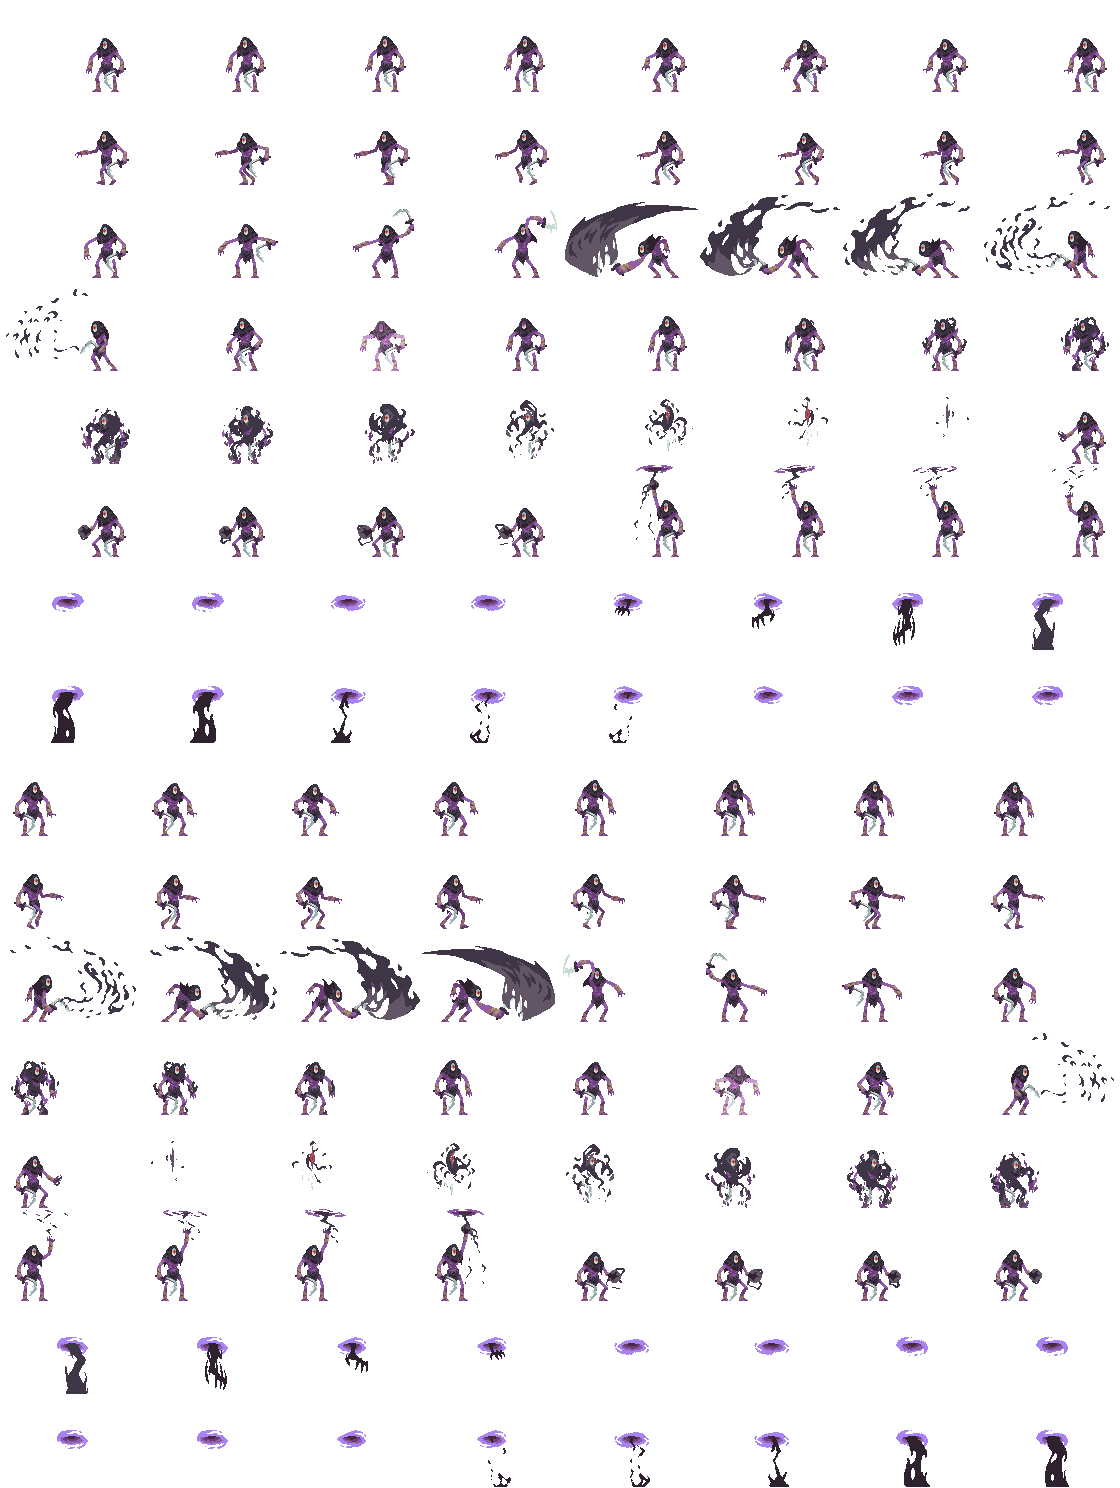
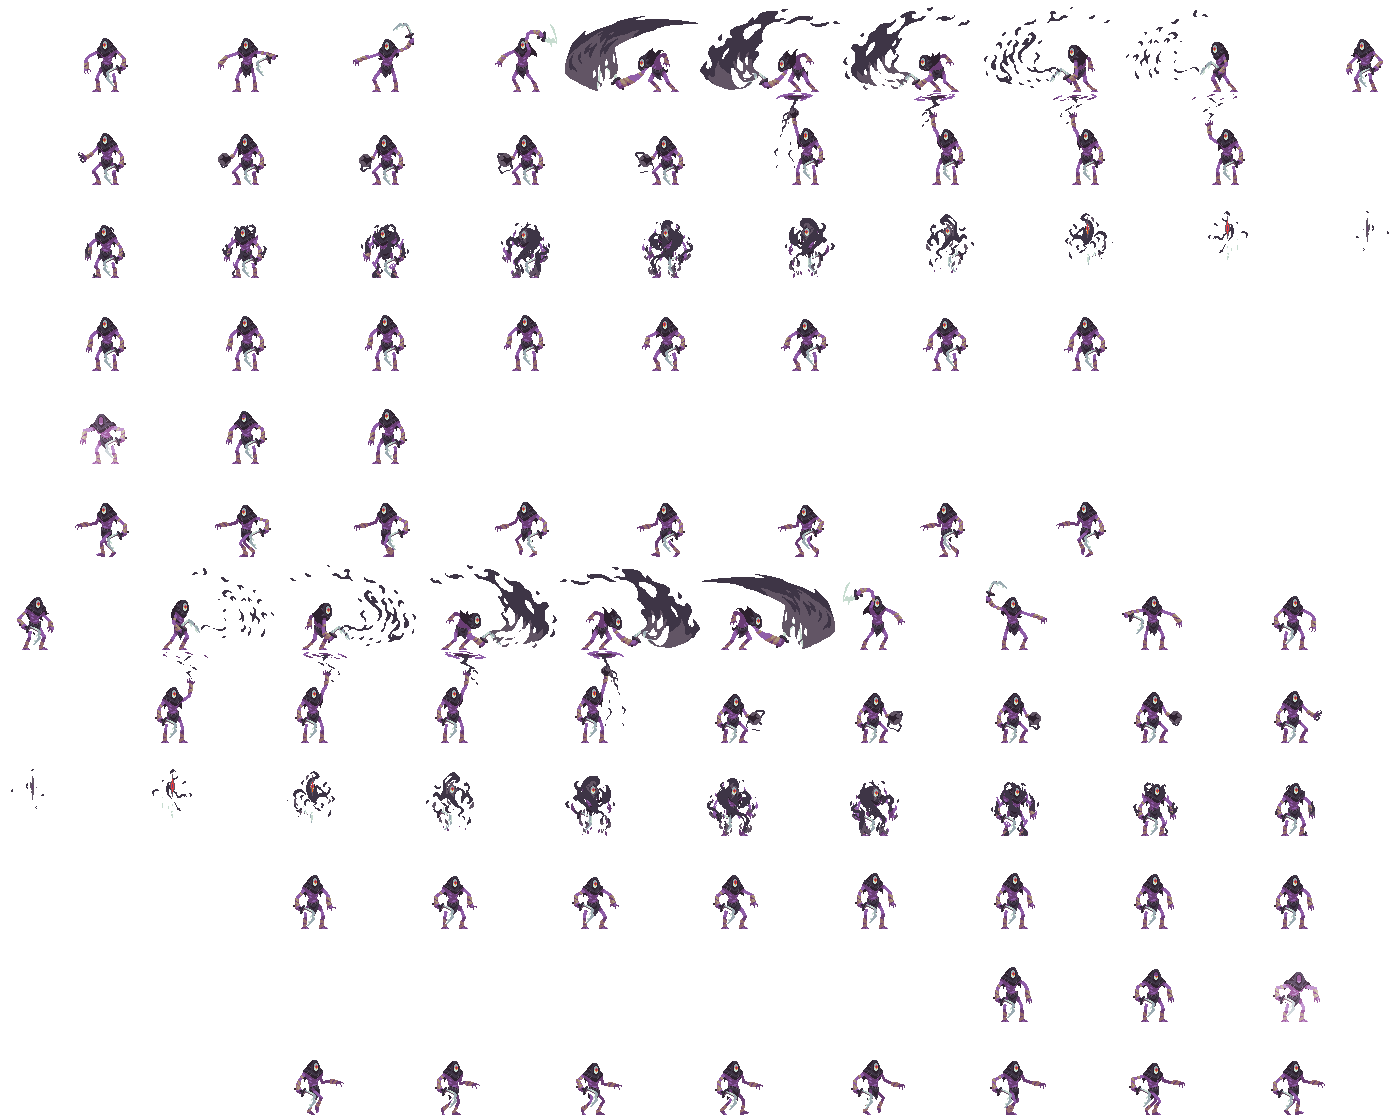
boss added

diff --git a/public/scripts/boss.js b/public/scripts/boss.js
@@ -1,0 +1,152 @@
+class BossEnemy extends EnemyBase {
+    constructor(ctx, x, y, id, world) {
+        const sequences = {
+            idleLeft:   { x: 0,    y: 279,   width: 140, height: 93, count: 8, timing: 150, loop: true },
+            idleRight:  { x: 1260, y: 837,   width: -140, height: 93, count: 8, timing: 150, loop: true },
+            walkLeft:   { x: 0,    y: 465,  width: 140, height: 93, count: 8, timing: 100, loop: true },
+            walkRight:  { x: 1260, y: 1023,  width: -140, height: 93, count: 8, timing: 100, loop: true },
+            attackLeft: { x: 0,    y: 0, width: 140, height: 93, count: 10, timing: 120, loop: false },
+            attackRight:{ x: 1260, y: 558, width: -140, height: 93, count: 10, timing: 120, loop: false },
+            castLeft:   { x: 0,    y: 93, width: 140, height: 93, count: 9,  timing: 100, loop: false },
+            castRight:  { x: 1260, y: 651, width: -140, height: 93, count: 9,  timing: 100, loop: false },
+            hitLeft:    { x: 0,    y: 372, width: 140, height: 93, count: 3,  timing: 100, loop: false },
+            hitRight:   { x: 1260, y: 930, width: -140, height: 93, count: 3,  timing: 100, loop: false },
+            deathLeft:  { x: 0,    y: 186, width: 140, height: 93, count: 10, timing: 150, loop: false },
+            deathRight: { x: 1260, y: 744, width: -140, height: 93, count: 10, timing: 150, loop: false }
+        };
+
+        super(ctx, x, y, id, world, {
+            sheet: "images/boss.png",
+            scale: 4,
+            shadowScale: { x: 0, y: 0 },
+            initialSequence: sequences.idleRight,
+            sounds: {
+                attack: new Audio("sounds/Attack.mp3"),
+                damage: new Audio("sounds/bossDamage.mp3"),
+                death:  new Audio("sounds/bossDie.mp3")
+            },
+            speed: 100,
+            maxHealth: 800,
+            maxPoise: 200,
+            range: 200,
+            attackDuration: 100,
+            attackCooldown: 80,
+            damageFrame: 50,
+            damageAmount: 40,
+            size: { hHalfSize: 45, vUpperSize: 45, vLowerSize: 75 },
+            patrol: { xl: 400, xr: 1600 }
+        });
+
+        this.sequences = sequences;
+        this.animationState = "idleRight";
+
+        this.castCooldown = 0;
+        this.castMaxCooldown = 600;
+        this.isCasting = false;
+        this.castDuration = 60;
+        this.castDamageFrame = 50;
+        this.castSound = new Audio("sounds/bossCast.mp3");
+
+        this.lastAnimDir = this.animationDirection;
+        this.dirShiftAmount = -100;
+    }
+
+    adjustDirectionOffset() {
+        if (this.animationDirection !== this.lastAnimDir) {
+            const { x, y } = this.sprite.getXY();
+            if (this.animationDirection === 1) {
+                this.sprite.setXY(x - this.dirShiftAmount, y);
+            } else {
+                this.sprite.setXY(x + this.dirShiftAmount, y);
+            }
+            this.lastAnimDir = this.animationDirection;
+        }
+    }
+
+    getAnimationState() {
+        const dir = this.animationDirection == -1 ? "Left" : "Right";
+        if (!this.alive) return `death${dir}`;
+        if (this.recoverTimer > 0) return `hit${dir}`;
+        if (this.isCasting) return `cast${dir}`;
+        if (this.attackStanceTimer > 0) return `attack${dir}`;
+        if (this.direction != 0) return `walk${dir}`;
+        return `idle${dir}`;
+    }
+
+    cast() {
+        if (this.recoverTimer > 0 || this.attackStanceTimer > 0 ||
+            this.castCooldown > 0 || !this.alive) return;
+        if (this.world.players.length === 0) return;
+
+        this.isCasting = true;
+        this.attackStanceTimer = this.castDuration;
+        this.castCooldown = this.castMaxCooldown;
+        this.animationDirection = this.animationDirection || 1;
+        this.castSound.currentTime = 0;
+        this.castSound.play().catch(() => {});
+    }
+
+    update(time) {
+        if (!this.alive) {
+            this.sprite.update(time);
+            return;
+        }
+
+        if (!this.isCasting && this.attackStanceTimer == 0) {
+            const { x, y } = this.sprite.getXY();
+            if (this.recoverTimer == 0) {
+                if (this.detectPlayer(this.direction, this.range)) {
+                    this.attack();
+                } else {
+                    const forward  = this.direction == 1 ? this.patrolXR - x : x - this.patrolXL;
+                    const backward = this.direction == 1 ? x - this.patrolXL : this.patrolXR - x;
+                    if (!this.detectPlayer(this.direction, forward) && this.detectPlayer(-this.direction, backward)) {
+                        this.move(-this.direction);
+                    } else {
+                        const newX = x + this.speed / 60 * this.direction;
+                        if (newX > this.patrolXL && newX < this.patrolXR)
+                            this.sprite.setXY(newX, y);
+                        else
+                            this.move(-this.direction);
+                    }
+                }
+            }
+        }
+
+        if (this.cooldownTimer > 0) this.cooldownTimer--;
+        if (this.attackStanceTimer > 0) {
+            if (!this.isCasting && this.attackStanceTimer == this.damageFrame) {
+                this.detectPlayer(this.direction, this.range, true);
+            }
+            if (this.isCasting && this.attackStanceTimer == this.castDamageFrame) {
+                const alivePlayers = this.world.players.filter(p => p.alive);
+                if (alivePlayers.length > 0) {
+                    const target = alivePlayers[Math.floor(Math.random() * alivePlayers.length)];
+                    this.world.cloudStrikes.push(
+                        CloudStrike(this.ctx, target, this.world)
+                    );
+                }
+            }
+            this.attackStanceTimer--;
+            if (this.isCasting && this.attackStanceTimer <= 0) {
+                this.isCasting = false;
+            }
+        }
+        if (this.recoverTimer > 0) this.recoverTimer--;
+        if (this.castCooldown > 0) this.castCooldown--;
+
+        if (this.recoverTimer == 0 && this.attackStanceTimer == 0 && !this.isCasting && this.alive) {
+            if (!this.detectPlayer(this.direction, this.range) && this.castCooldown <= 0) {
+                this.cast();
+            }
+        }
+
+        this.adjustDirectionOffset();
+        this.updateAnimation();
+        this.sprite.update(time);
+    }
+}
+
+const Boss = function(ctx, x, y, id, world) {
+    return new BossEnemy(ctx, x, y, id, world);
+};

diff --git a/public/scripts/cloud_strike.js b/public/scripts/cloud_strike.js
@@ -1,0 +1,68 @@
+const CloudStrike = function(ctx, targetPlayer, world) {
+    const SEQUENCE = {
+        x: 0, y: 0,
+        width: 140, height: 93,
+        count: 16,
+        timing: 80,
+        loop: false
+    };
+
+    const DAMAGE_FRAME = 8;
+    const DAMAGE_TIME = DAMAGE_FRAME * SEQUENCE.timing;
+    const TOTAL_TIME = SEQUENCE.count * SEQUENCE.timing;
+
+
+    const targetBox = targetPlayer.getBoundingBox();
+    const strikeX = (targetBox.getLeft() + targetBox.getRight()) / 2;
+    const strikeY = targetBox.getTop() - 20;
+
+    const sprite = Sprite(ctx, strikeX, strikeY);
+    sprite.setSequence(SEQUENCE)
+          .setScale(2)
+          .setShadowScale({ x: 0, y: 0 })
+          .useSheet("images/thunder.png");
+
+    let startTime = null;
+    let damageDone = false;
+    let alive = true;
+
+    const sound = new Audio("sounds/thunder.mp3");
+
+    const update = function(time) {
+        if (!alive) return false;
+        if (startTime === null) startTime = time;
+
+        const elapsed = time - startTime;
+        sprite.update(time);
+
+        if (!damageDone && elapsed >= DAMAGE_TIME) {
+            const aoeRange = 60;
+            const aoeBox = BoundingBox(ctx, strikeY - aoeRange, strikeX - aoeRange, strikeY + aoeRange, strikeX + aoeRange);
+
+            for (const player of world.players) {
+                if (player.alive && player.getBoundingBox().intersect(aoeBox)) {
+                    player.takeDamage(35);
+                }
+            }
+
+            sound.currentTime = 0;
+            sound.play().catch(() => {});
+            damageDone = true;
+        }
+
+        if (elapsed >= TOTAL_TIME) {
+            alive = false;
+            return false;
+        }
+        return true;
+    };
+
+    const draw = function() {
+        if (!alive) return;
+        sprite.draw();
+    };
+
+    const isAlive = function() { return alive; };
+
+    return { update, draw, isAlive };
+};

diff --git a/public/scripts/client.js b/public/scripts/client.js
@@ -252,7 +252,8 @@ const Client = (function(){
         ];
 
         world.enemies = [
-            Skeleton(context, 1500, 960, "skeleton", world)
+            Skeleton(context, 1500, 960, "skeleton", world),
+            Boss(context, 960, 650, "boss", world)
         ];
 
         world.coins = [
@@ -329,6 +330,11 @@ const Client = (function(){
                         world.coins.splice(i, 1);
                 }
 
+                for(let i = world.cloudStrikes.length - 1; i >= 0; i--){
+                    const alive = world.cloudStrikes[i].update(simulationNow);
+                    if(!alive) world.cloudStrikes.splice(i, 1);
+                }
+
                 shooterSpawnTimer--;
                 if (shooterSpawnTimer <= 0) {
                     const randomX = 100 + Math.random() * 1720;
@@ -351,6 +357,7 @@ const Client = (function(){
             world.enemies.forEach(_ => _.draw());
             world.players.forEach(_ => _.draw());
             world.bullets.forEach(_ => _.draw());
+            world.cloudStrikes.forEach(_ => _.draw());
 
             requestAnimationFrame(doFrame);
         }

diff --git a/public/scripts/world.js b/public/scripts/world.js
@@ -4,8 +4,9 @@ const World = function() {
     const bullets = [];
     const coins = [];
     const obstacles = [];
+    const cloudStrikes = []; 
 
     let socket;
 
-    return {players, enemies, bullets, coins, obstacles, socket};
+    return { players, enemies, bullets, coins, obstacles, cloudStrikes, socket };
 };

diff --git a/public/index.html b/public/index.html
@@ -161,9 +161,11 @@
     <script src="scripts/knight.js"></script>
     <script src="scripts/skeleton.js"></script>
     <script src="scripts/shooter.js"></script>
+    <script src="scripts/boss.js"></script>
 
     <script src="scripts/bullet.js"></script>
     <script src="scripts/shooter_bullet.js"></script>
+    <script src="scripts/cloud_strike.js"></script>
     <script src="scripts/gem.js"></script>
     
     <script src="scripts/floor.js"></script>